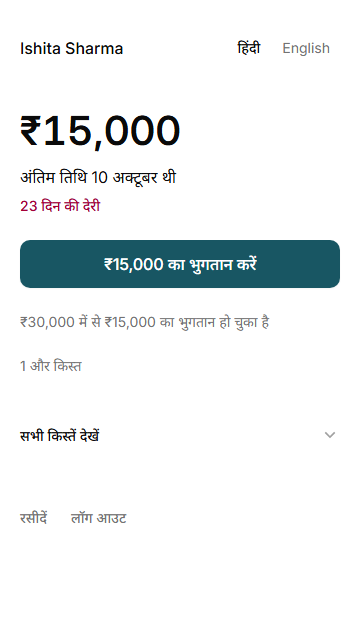
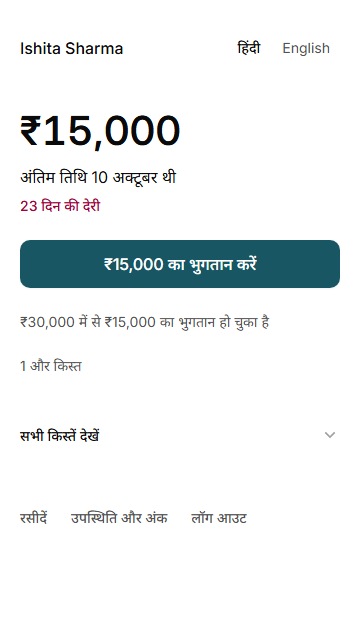
T6.1: add attendance and test scores to the parent portal
The brief's portal lists attendance and test scores, but parents could only
see fees. /progress shows the signed-in family's child only, in Hindi and
English, with no comparison with other students and no risk data. It runs on
sample data; the Django view behind lib/data/progress.ts is left for Codex.

diff --git a/app/(parent)/progress/page.tsx b/app/(parent)/progress/page.tsx
@@ -1,0 +1,48 @@
+import { redirect } from "next/navigation";
+import { PageShell } from "@/components/app/PageShell";
+import { PageSkeleton } from "@/components/app/PageSkeleton";
+import { EmptyState } from "@/components/app/EmptyState";
+import { LanguageSwitcher } from "@/components/app/LanguageSwitcher";
+import { LogoutButton } from "@/components/app/LogoutButton";
+import { LinkButton } from "@/components/base/buttons/link-button";
+import { getProgress } from "@/lib/data/progress";
+import { getParentPageContext } from "@/lib/data/auth";
+import { previewState, type SearchParams } from "@/lib/preview";
+import { dateLabel } from "@/lib/format";
+import { t } from "@/lib/i18n";
+import { pt } from "@/lib/i18n/progress";
+
+export default async function Progress({ searchParams }: { searchParams: Promise<SearchParams> }) {
+  const query = await searchParams;
+  const context = await getParentPageContext();
+  const { language, today } = context;
+  const state = previewState(query);
+  if (state === "loading") return <PageSkeleton language={language} />;
+  if (state === "empty") return <PageShell><EmptyState title={pt(language, "progress.empty")} /></PageShell>;
+  if (context.role !== "parent") redirect("/login");
+  if (!context.consent) redirect("/consent");
+  const selected = typeof query.student === "string" ? query.student : undefined;
+  const { studentName, attendance, tests } = await getProgress(selected);
+  const recent = attendance.slice(0, 4);
+  return <PageShell className="flex flex-col gap-8">
+    <header className="flex items-start justify-between gap-3"><div className="flex min-w-0 flex-col gap-1"><h1 className="text-title-1-medium">{pt(language, "progress.title")}</h1><p className="text-body-regular text-text-secondary">{studentName}</p></div><LanguageSwitcher language={language} /></header>
+    {attendance.length || tests.length ? <>
+      <section className="flex flex-col gap-3">
+        <h2 className="text-headline-medium">{pt(language, "progress.attendance")}</h2>
+        {recent.length > 1 ? <p className="text-headline-regular">{pt(language, "progress.summary", { n: recent.length, attended: recent.reduce((sum, week) => sum + week.attended, 0), held: recent.reduce((sum, week) => sum + week.held, 0) })}</p> : null}
+        {attendance.length ? <ul className="divide-y divide-separator-border">{attendance.map((week) => <li key={week.weekStart} className="flex flex-col gap-2 py-3">
+          <span className="flex justify-between gap-4 text-body-regular"><span>{pt(language, "progress.week", { date: dateLabel(week.weekStart, language, today) })}</span><span className="shrink-0 tabular-nums">{pt(language, "progress.classes", { attended: week.attended, held: week.held })}</span></span>
+          <span aria-hidden className="block h-1.5 overflow-hidden rounded-full bg-border-button-default"><span className="block h-full rounded-full bg-accent-500" style={{ width: `${week.held ? week.attended / week.held * 100 : 0}%` }} /></span>
+        </li>)}</ul> : <p className="text-body-regular text-text-secondary">{pt(language, "progress.noAttendance")}</p>}
+      </section>
+      <section className="flex flex-col gap-3">
+        <h2 className="text-headline-medium">{pt(language, "progress.tests")}</h2>
+        {tests.length ? <ul className="divide-y divide-separator-border">{tests.map((test) => <li key={`${test.testDate}-${test.testName}`} className="flex items-center justify-between gap-4 py-3">
+          <span className="flex min-w-0 flex-col gap-1"><bdi className="text-body-medium">{test.testName}</bdi><span className="text-body-regular text-text-secondary">{dateLabel(test.testDate, language, today)}</span></span>
+          <bdi className="shrink-0 text-headline-medium tabular-nums">{test.score}/{test.maxScore}</bdi>
+        </li>)}</ul> : <p className="text-body-regular text-text-secondary">{pt(language, "progress.noTests")}</p>}
+      </section>
+    </> : <EmptyState title={pt(language, "progress.empty")} />}
+    <footer className="flex flex-wrap items-center gap-6"><LinkButton href={selected ? `/dues?student=${encodeURIComponent(selected)}` : "/dues"} variant="secondary">{t(language, "pay.backToDues")}</LinkButton><LogoutButton language={language} /></footer>
+  </PageShell>;
+}

diff --git a/e2e/parent-progress.spec.ts b/e2e/parent-progress.spec.ts
@@ -1,0 +1,48 @@
+import AxeBuilder from "@axe-core/playwright";
+import { expect, test, type BrowserContext } from "@playwright/test";
+
+async function signIn(context: BrowserContext, phone: string, language = "en") {
+  await context.addCookies([
+    { name: "lang", value: language, url: "http://127.0.0.1:3001" },
+    { name: "proto", value: encodeURIComponent(JSON.stringify({ role: "parent", phone, consent: true })), url: "http://127.0.0.1:3001" },
+  ]);
+}
+
+for (const [language, link, summary, week, classes] of [
+  ["en", "Attendance and scores", "Attended 19 of 20 classes in the last 4 weeks", "Week of 26 Oct", "5 of 5"],
+  ["hi", "उपस्थिति और अंक", "पिछले 4 हफ़्तों में 20 में से 19 कक्षाओं में उपस्थित", "26 अक्टूबर का हफ़्ता", "5 में से 5"],
+] as const) test(`dues links to attendance and scores in ${language}`, async ({ page, context }) => {
+  await signIn(context, "+919000000587", language);
+  await page.goto("/dues");
+  await page.getByRole("link", { name: link, exact: true }).click();
+  await expect(page).toHaveURL(/\/progress\?student=STU-0587$/);
+  await expect(page.getByText("Ishita Sharma", { exact: true })).toBeVisible();
+  await expect(page.getByText(summary, { exact: true })).toBeVisible();
+  await expect(page.getByRole("listitem").filter({ hasText: week }).getByText(classes, { exact: true })).toBeVisible();
+  await expect(page.getByRole("listitem").filter({ hasText: "Monthly Test 7" }).getByText("86/100", { exact: true })).toBeVisible();
+  expect(await page.evaluate(() => document.documentElement.scrollWidth <= innerWidth)).toBe(true);
+  expect((await new AxeBuilder({ page }).analyze()).violations.filter((item) => item.impact === "serious" || item.impact === "critical")).toEqual([]);
+});
+
+test("a family only sees its own child, and no risk or comparison wording appears", async ({ page, context }) => {
+  await signIn(context, "+919000000733");
+  await page.goto("/progress");
+  await expect(page.getByText("Riya Verma", { exact: true })).toBeVisible();
+  await expect(page.locator("main")).not.toContainText(/risk|flag|counsellor|average|rank|topper/i);
+  await page.goto("/progress?student=STU-0587");
+  await expect(page.locator("main").getByRole("alert")).toBeVisible();
+  await expect(page.getByText("Ishita Sharma", { exact: true })).toHaveCount(0);
+});
+
+test("a new student shows what little there is", async ({ page, context }) => {
+  await signIn(context, "+919000000735");
+  await page.goto("/progress");
+  await expect(page.getByText("Attended 9 of 10 classes in the last 2 weeks", { exact: true })).toBeVisible();
+  await expect(page.getByRole("listitem").filter({ hasText: "Week of" })).toHaveCount(2);
+  await expect(page.getByText("64/100", { exact: true })).toBeVisible();
+});
+
+test("signed-out visitors are sent to sign-in", async ({ page }) => {
+  await page.goto("/progress");
+  await expect(page).toHaveURL(/\/login$/);
+});

diff --git a/tests/prototype.test.ts b/tests/prototype.test.ts
@@ -15,6 +15,7 @@ import { getAutomation } from "@/lib/data/automation";
 import { getRefund } from "@/lib/data/refund";
 import { getCounsellor } from "@/lib/data/counsellor";
 import { getReceipt, getReceipts } from "@/lib/data/receipts";
+import { getProgress } from "@/lib/data/progress";
 import { getPayDetails, getPaymentResult } from "@/lib/data/payments";
 import { openPrototypeRoute } from "@/lib/actions/prototype";
 import { getAuthState } from "@/lib/data/auth";
@@ -78,6 +79,22 @@ describe("prototype fixtures and state changes", () => {
     expect(receipt.taxable + receipt.cgst + receipt.sgst).toBe(receipt.amount);
     expect(await submitMockPayment({ token: "STU-0587-3", outcome: "success" })).toMatchObject({ ok: true, result: "already_paid" });
     expect(await getReceipts()).toHaveLength(4);
+  });
+
+  it("progress is scoped to the family, matches the risk reasons and stops when a student leaves", async () => {
+    const pct = (rows: { attended: number; held: number }[]) => rows.reduce((sum, row) => sum + row.attended, 0) * 100 / rows.reduce((sum, row) => sum + row.held, 0);
+    const mean = (rows: { score: number }[]) => rows.reduce((sum, row) => sum + row.score, 0) / rows.length;
+    session({ role: "parent", phone: "+919000000733", consent: true });
+    const riya = await getProgress();
+    expect(pct(riya.attendance.slice(0, 4))).toBe(60);
+    expect(pct(riya.attendance.slice(4, 8))).toBe(90);
+    expect(mean(riya.tests.slice(0, 2))).toBe(49);
+    expect(mean(riya.tests.slice(2, 5))).toBe(69);
+    await expect(getProgress("STU-0587")).rejects.toThrow();
+    session({ phone: "+919000000803" });
+    expect((await getProgress()).attendance[0].weekStart).toBe("2026-10-12");
+    session({ phone: "+919000000735", date: "2026-10-20" });
+    expect(await getProgress()).toMatchObject({ attendance: [{ weekStart: "2026-10-19" }], tests: [] });
   });
 
   it("wrong amounts enter review and do not mark anything paid", async () => {

diff --git a/app/(parent)/dues/page.tsx b/app/(parent)/dues/page.tsx
@@ -14,6 +14,7 @@ import { getDues } from "@/lib/data/dues";
 import { getParentPageContext } from "@/lib/data/auth";
 import { previewState, type SearchParams } from "@/lib/preview";
 import { t } from "@/lib/i18n";
+import { pt } from "@/lib/i18n/progress";
 import { dateLabel, inr } from "@/lib/format";
 
 export default async function Dues({ searchParams }: { searchParams: Promise<SearchParams> }) {
@@ -43,6 +44,6 @@ export default async function Dues({ searchParams }: { searchParams: Promise<Sea
     : view.mode === "review" ? <section><h2 className="text-title-2-medium">{t(language, "dues.review")}</h2></section>
     : view.refund ? <section className="flex flex-col gap-4"><h2 className="text-title-1-medium">{t(language, "refund.title")}</h2><Money paise={view.refund.amount} prominent /><div><StatusChip status={view.refund.status} language={language} /></div><p className="text-headline-regular">{t(language, "refund.payBy", { date: dateLabel(view.refund.deadline, language, today) })}</p>{view.refund.stillPayable > 0 ? <p className="text-body-regular">{t(language, "refund.stillPayable", { amount: inr(view.refund.stillPayable) })}</p> : null}</section> : null}
     {view.mode !== "withdrawn" ? <InstalmentDisclosure instalments={view.instalments} language={language} today={today} /> : null}
-    <footer className="flex flex-wrap items-center gap-6"><LinkButton href={`/receipts?student=${view.selectedStudentId}`} variant="secondary">{t(language, "dues.receipts")}</LinkButton><LogoutButton language={language} /></footer>
+    <footer className="flex flex-wrap items-center gap-6"><LinkButton href={`/receipts?student=${view.selectedStudentId}`} variant="secondary">{t(language, "dues.receipts")}</LinkButton><LinkButton href={`/progress?student=${view.selectedStudentId}`} variant="secondary">{pt(language, "progress.link")}</LinkButton><LogoutButton language={language} /></footer>
   </PageShell>;
 }

diff --git a/lib/fixtures/progress.ts b/lib/fixtures/progress.ts
@@ -1,0 +1,27 @@
+import type { ProgressVM } from "@/lib/types";
+
+const HELD = 5;
+const weeks = ["2026-09-07", "2026-09-14", "2026-09-21", "2026-09-28", "2026-10-05", "2026-10-12", "2026-10-19", "2026-10-26"];
+const tests = [["2026-06-27", "Monthly Test 3"], ["2026-07-25", "Monthly Test 4"], ["2026-08-29", "Monthly Test 5"], ["2026-09-26", "Monthly Test 6"], ["2026-10-24", "Monthly Test 7"]];
+
+// Oldest first. Riya's numbers are the ones behind her counsellor task: attendance 90% then 60%, tests 69% then 49%.
+const named: Record<string, { attended: number[]; scores: number[] }> = {
+  "STU-0587": { attended: [5, 5, 4, 5, 5, 4, 5, 5], scores: [78, 81, 84, 82, 86] },
+  "STU-0733": { attended: [5, 4, 5, 4, 3, 3, 3, 3], scores: [72, 68, 67, 50, 48] },
+  "STU-0735": { attended: [4, 5], scores: [64] },
+};
+
+// Everyone else gets steady made-up numbers, so nobody but Riya looks as if they are falling behind.
+function steady(code: string) {
+  const seed = Number(code.slice(4));
+  return { attended: weeks.map((_, index) => (seed + index) % 4 === 0 ? HELD - 1 : HELD), scores: tests.map((_, index) => 62 + seed % 20 + [1, 0, 2, 1, 2][index]) };
+}
+
+// Newest first, leaving out anything after `until`.
+export function progressFor(code: string, until: string): ProgressVM {
+  const { attended, scores } = named[code] ?? steady(code);
+  return {
+    attendance: attended.map((count, index) => ({ weekStart: weeks[weeks.length - attended.length + index], attended: count, held: HELD })).filter((week) => week.weekStart <= until).reverse(),
+    tests: scores.map((score, index) => ({ testDate: tests[tests.length - scores.length + index][0], testName: tests[tests.length - scores.length + index][1], score, maxScore: 100 })).filter((test) => test.testDate <= until).reverse(),
+  };
+}

diff --git a/lib/i18n/progress.ts b/lib/i18n/progress.ts
@@ -1,0 +1,33 @@
+import { fill } from "./index";
+import type { Language } from "@/lib/types";
+
+// Copy for /progress only. It lives apart so /dues does not ship it: its script budget is 200 KB.
+const en = {
+  "progress.link": "Attendance and scores",
+  "progress.title": "Attendance and test scores",
+  "progress.attendance": "Attendance",
+  "progress.summary": "Attended {attended} of {held} classes in the last {n} weeks",
+  "progress.week": "Week of {date}",
+  "progress.classes": "{attended} of {held}",
+  "progress.tests": "Test scores",
+  "progress.empty": "No attendance or test scores yet",
+  "progress.noAttendance": "No attendance recorded yet",
+  "progress.noTests": "No test scores yet",
+};
+
+const hi: typeof en = {
+  "progress.link": "उपस्थिति और अंक",
+  "progress.title": "उपस्थिति और टेस्ट के अंक",
+  "progress.attendance": "उपस्थिति",
+  "progress.summary": "पिछले {n} हफ़्तों में {held} में से {attended} कक्षाओं में उपस्थित",
+  "progress.week": "{date} का हफ़्ता",
+  "progress.classes": "{held} में से {attended}",
+  "progress.tests": "टेस्ट के अंक",
+  "progress.empty": "अभी उपस्थिति या टेस्ट के अंक नहीं हैं",
+  "progress.noAttendance": "अभी उपस्थिति दर्ज नहीं हुई है",
+  "progress.noTests": "अभी टेस्ट के अंक नहीं हैं",
+};
+
+export function pt(language: Language, key: keyof typeof en, values: Record<string, string | number> = {}): string {
+  return fill((language === "hi" ? hi : en)[key], values);
+}

diff --git a/scripts/screens.ts b/scripts/screens.ts
@@ -41,7 +41,7 @@ async function main() {
             await context.clearCookies({ name: "proto" });
             if (route.path.startsWith("/counsellor/")) await context.addCookies([{ name: "proto", value: encodeURIComponent(JSON.stringify({ role: "counsellor" })), url: origin }]);
             if (route.path.startsWith("/staff/") && route.path !== "/staff/login") await context.addCookies([{ name: "proto", value: encodeURIComponent(JSON.stringify({ role: "accounts" })), url: origin }]);
-            if (["/consent", "/receipts"].includes(route.path) || route.name === "receipt" || route.name === "payment-result") {
+            if (["/consent", "/receipts", "/progress"].includes(route.path) || route.name === "receipt" || route.name === "payment-result") {
               const state = {
                 role: "parent", phone: "+919000000587", consent: route.path !== "/consent", otp: { attempts: 0, sends: 1, verified: true },
                 ...(route.name === "payment-result" ? {

diff --git a/lib/prototype-routes.ts b/lib/prototype-routes.ts
@@ -7,6 +7,7 @@ export const prototypeRoutes = [
   { key: "result", title: "Payment result", path: "/pay/STU-0587-3/result", role: "public" },
   { key: "receipts", title: "Parent receipts", path: "/receipts", role: "parent" },
   { key: "receipt", title: "GST receipt", path: "/receipts/STU-0587-receipt-3", role: "parent" },
+  { key: "progress", title: "Attendance and test scores", path: "/progress", role: "parent" },
   { key: "policy", title: "Refund policy", path: "/refund-policy", role: "public" },
   { key: "staff-login", title: "Staff sign-in", path: "/staff/login", role: "public" },
   { key: "dashboard", title: "Dues dashboard", path: "/staff/dashboard", role: "accounts" },

diff --git a/lib/data/progress.ts b/lib/data/progress.ts
@@ -1,0 +1,12 @@
+import { parentContext } from "./scope";
+import { progressFor } from "@/lib/fixtures/progress";
+import { refundFor } from "@/lib/fixtures/views";
+import { today } from "@/lib/clock";
+
+export async function getProgress(studentId?: string) {
+  const { state, student } = await parentContext(studentId);
+  const date = await today();
+  const refund = refundFor(state, student.code, date);
+  const left = refund.status === "approved" || refund.status === "paid" ? refund.input.withdrawalDate : null;
+  return { studentName: student.name, ...progressFor(student.code, left && left < date ? left : date) };
+}

diff --git a/lib/types.ts b/lib/types.ts
@@ -6,6 +6,11 @@ export interface ReceiptVM extends ReceiptSummaryVM {
   method: string; taxable: number; cgst: number; sgst: number;
 }
 
+export interface ProgressVM {
+  attendance: { weekStart: string; attended: number; held: number }[];
+  tests: { testDate: string; testName: string; score: number; maxScore: number }[];
+}
+
 export interface InstalmentVM {
   id: string; seq: number; dueDate: string; amount: number; paid: number; balance: number;
   status: "paid" | "overdue" | "due_today" | "upcoming";

diff --git a/app/(parent)/progress/error.tsx b/app/(parent)/progress/error.tsx
@@ -1,0 +1,2 @@
+"use client";
+export { default } from "@/app/error";

diff --git a/app/(parent)/progress/loading.tsx b/app/(parent)/progress/loading.tsx
@@ -1,0 +1,1 @@
+export { default } from "@/app/loading";
